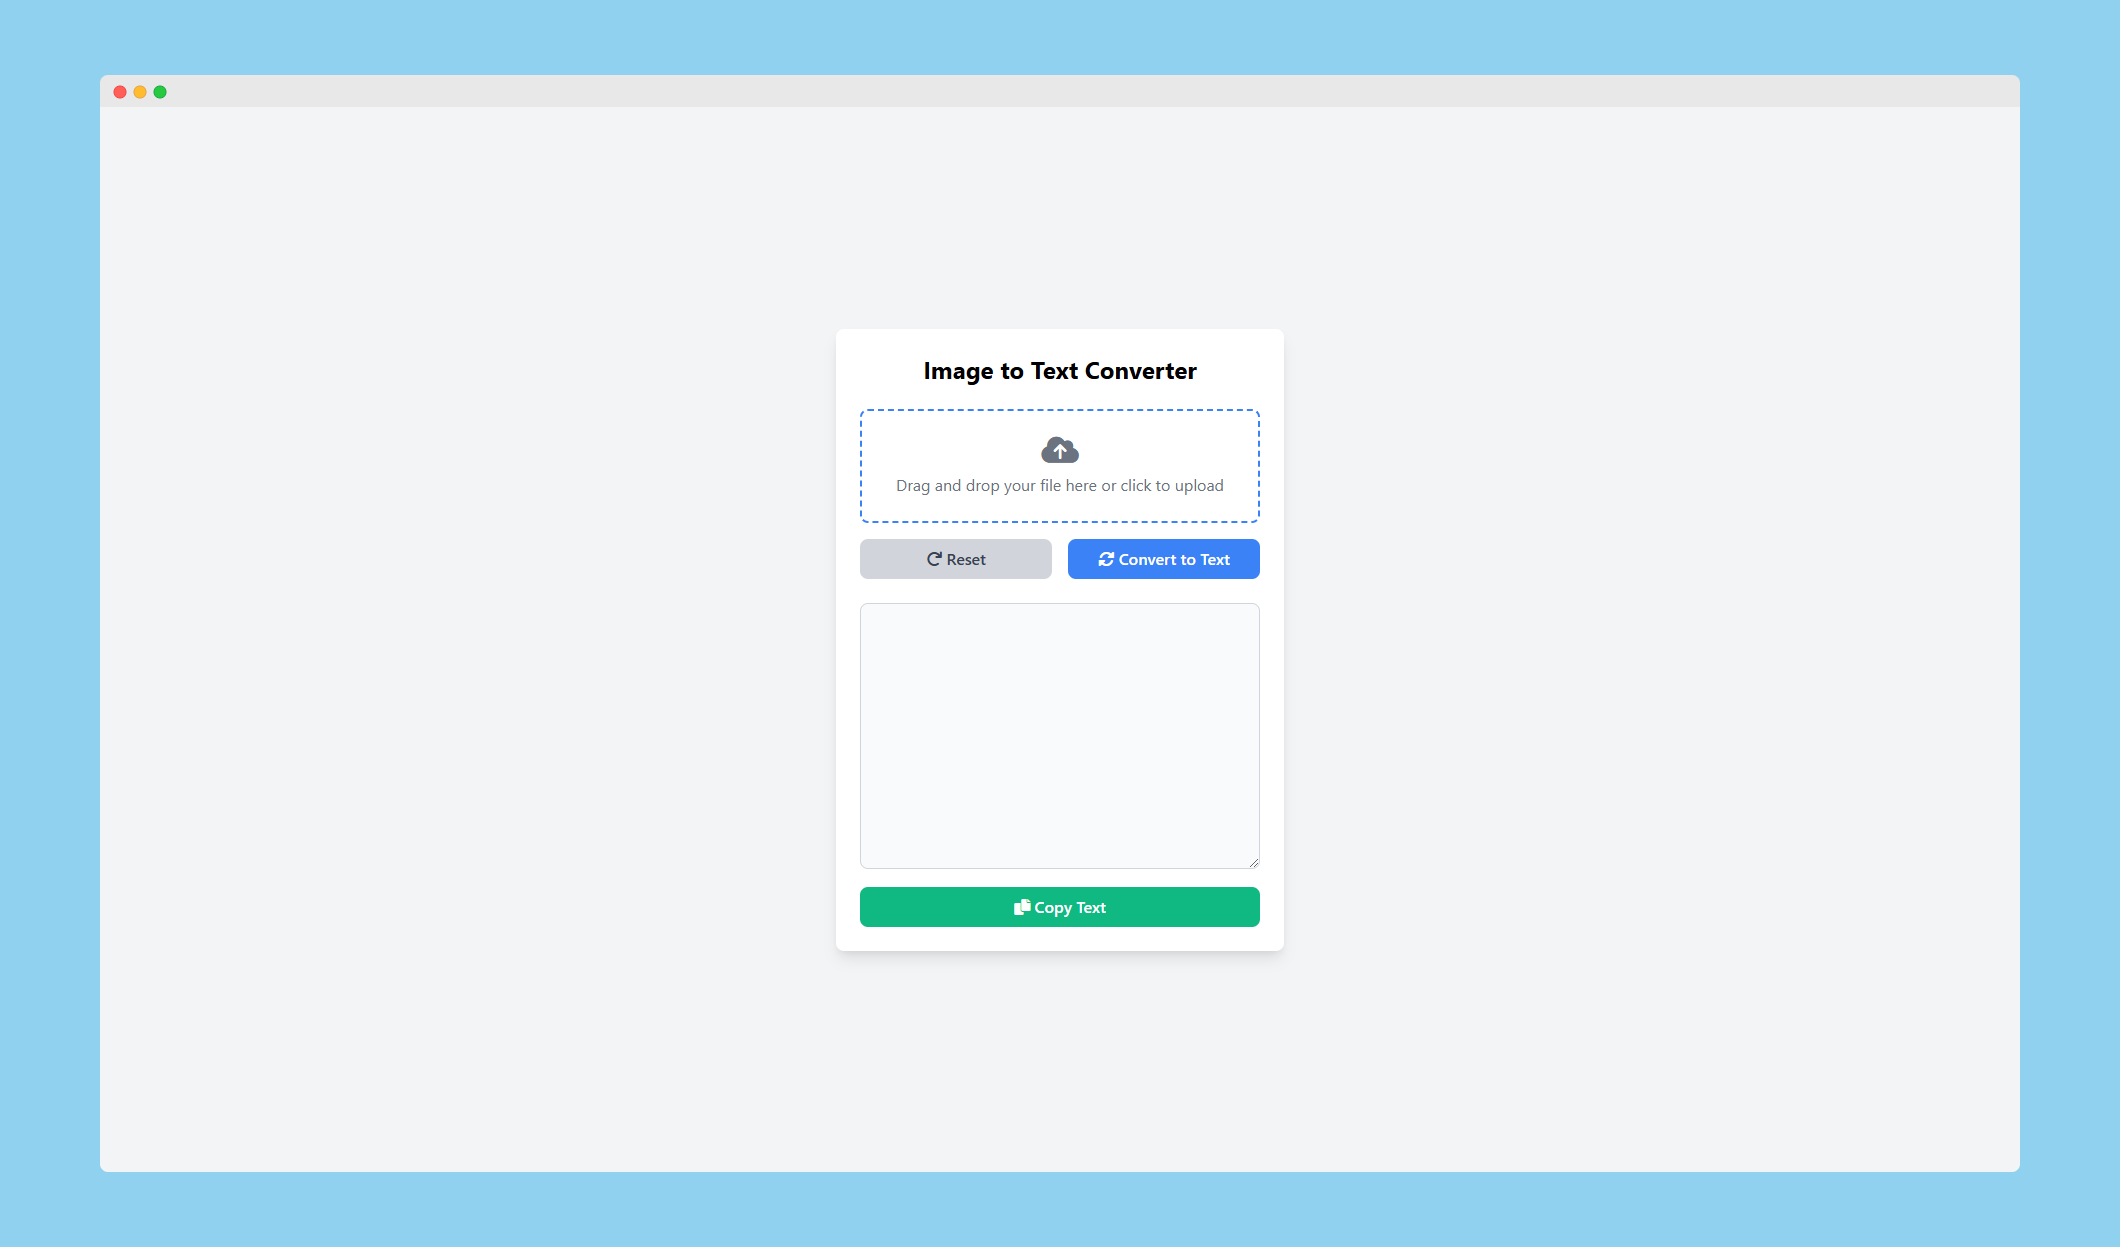
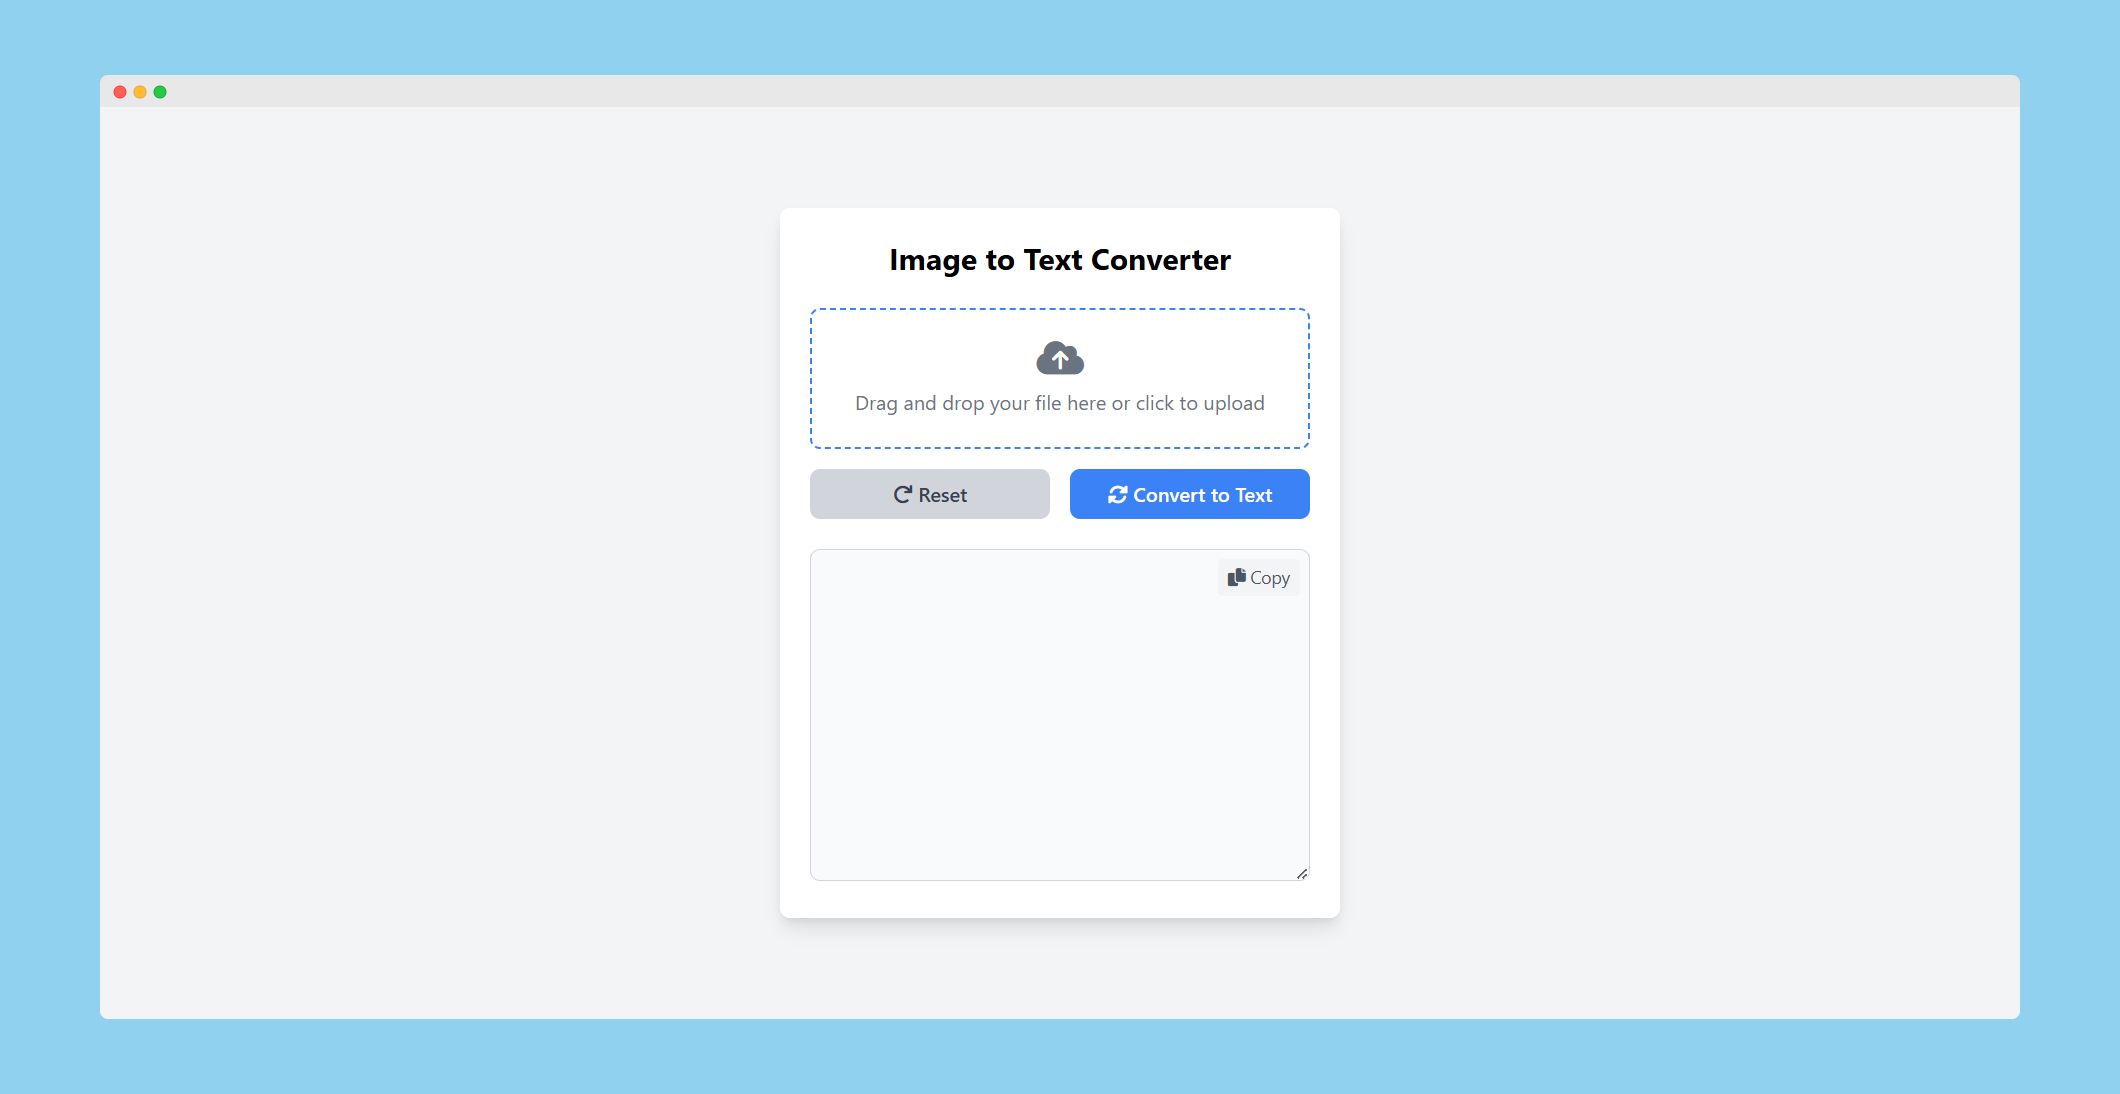
Initial commit

diff --git a/templates/index.html b/templates/index.html
@@ -8,6 +8,26 @@
     <link href="https://cdn.jsdelivr.net/npm/tailwindcss@2.2.19/dist/tailwind.min.css" rel="stylesheet">
     <!-- Font Awesome CDN -->
     <link rel="stylesheet" href="https://cdnjs.cloudflare.com/ajax/libs/font-awesome/6.0.0-beta3/css/all.min.css">
+    <style>
+        /* Additional CSS for floating copy button */
+        .copy-button {
+            position: absolute;
+            top: 0.5rem;
+            right: 0.5rem;
+            background-color: #f3f4f6;
+            color: #4b5563;
+            border: none;
+            border-radius: 0.25rem;
+            padding: 0.25rem 0.5rem;
+            font-size: 0.875rem;
+            cursor: pointer;
+            transition: background-color 0.3s ease;
+        }
+
+        .copy-button:hover {
+            background-color: #e5e7eb;
+        }
+    </style>
 </head>
 <body class="bg-gray-100 flex items-center justify-center min-h-screen">
 
@@ -26,20 +46,20 @@
             <!-- Display Selected File -->
             <div id="fileDetails" class="mt-4 text-center text-gray-700"></div>
 
-            <!-- Convert and Reset Buttons -->
+            <!-- Reset and Convert Buttons (swapped positions) -->
             <div class="flex space-x-4">
                 <button type="button" onclick="resetForm()" class="flex-1 bg-gray-300 text-gray-700 py-2 rounded-lg font-semibold hover:bg-gray-400 transition duration-200"><i class="fas fa-redo"></i> Reset</button>
-                <button type="submit" class="flex-1 bg-blue-500 text-white py-2 rounded-lg font-semibold hover:bg-blue-600 transition duration-200"><i class="fas fa-sync-alt"></i> Convert to Text</button>               
+                <button type="submit" class="flex-1 bg-blue-500 text-white py-2 rounded-lg font-semibold hover:bg-blue-600 transition duration-200"><i class="fas fa-sync-alt"></i> Convert to Text</button>
             </div>
         </form>
 
-        <!-- Text Area to Display Extracted Text -->
-        <div class="mt-6">
+        <!-- Text Area to Display Extracted Text with Floating Copy Button -->
+        <div class="relative mt-6">
             <textarea id="text" rows="10" class="w-full p-3 border border-gray-300 rounded-lg bg-gray-50 focus:outline-none focus:ring-2 focus:ring-blue-500" readonly></textarea>
             
-            <!-- Copy Text Button -->
-            <button onclick="copyText()" class="mt-3 w-full bg-green-500 text-white py-2 rounded-lg font-semibold hover:bg-green-600 transition duration-200">
-                <i class="fas fa-copy"></i> Copy Text
+            <!-- Floating Copy Button inside Textarea -->
+            <button onclick="copyText()" class="copy-button">
+                <i class="fas fa-copy"></i> Copy
             </button>
         </div>
     </div>
